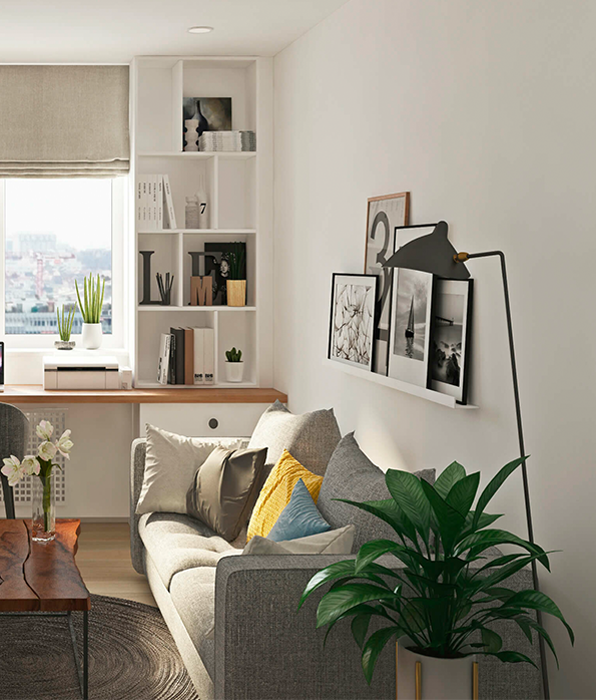
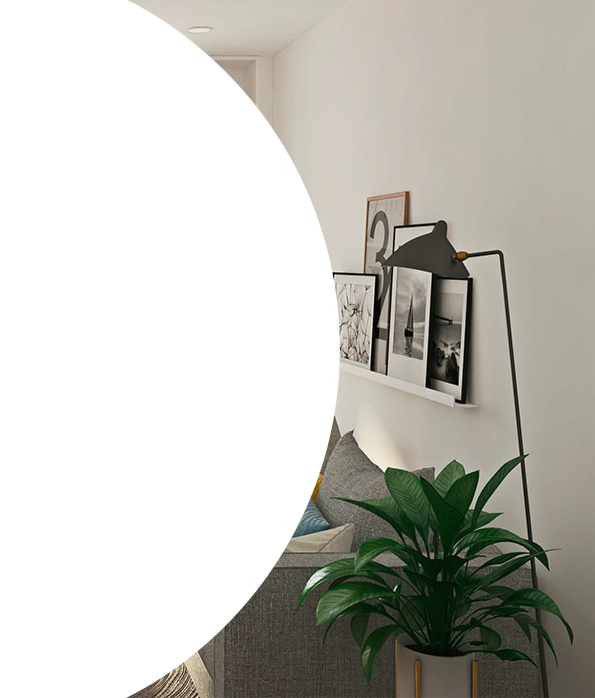
new

diff --git a/style/css/styles.css b/style/css/styles.css
@@ -88,7 +88,7 @@ article, aside, details, figcaption, figure, footer, header, main, menu, nav, se
     max-width: 1620px;
     width: 100%;
     margin: 0 auto;
-    padding: 25px 44px;
+    padding: 25px 40px;
 }
 .navigation-top{
     display: flex;
@@ -352,6 +352,10 @@ article, aside, details, figcaption, figure, footer, header, main, menu, nav, se
 .content-header-center{
     width: 100%;
 }
+.content-header-center {
+    max-width: 1532px;
+    margin: 0 auto;
+}
 .menu-content-header ul{
     display: flex;
     justify-content: space-between;
@@ -530,7 +534,7 @@ article, aside, details, figcaption, figure, footer, header, main, menu, nav, se
     max-width: 1620px;
     width: 100%;
     margin: 0 auto;
-    padding: 0 25px 0 0;
+    padding: 0 40px 0 0;
     background-color: #fbfbfb;
     position: relative;
 }
@@ -954,7 +958,7 @@ article, aside, details, figcaption, figure, footer, header, main, menu, nav, se
     position: absolute;
     top: 50px;
     left: -72px;
-    display: none;
+    z-index: 100;
 }
 .wrap-test{
 
@@ -973,6 +977,9 @@ article, aside, details, figcaption, figure, footer, header, main, menu, nav, se
     top: 56px;
     left: 425px;
 }
+.img-menu img{
+    position: relative;
+}
 .img-menu i{
     position: absolute;
     right: 30px;
@@ -980,21 +987,29 @@ article, aside, details, figcaption, figure, footer, header, main, menu, nav, se
     font-size: 35px;
     cursor: pointer;
 }
-.circul-block{
-    width: 778px;
-    min-height: 782px;
-    background-color: #ffffff;
-    border-radius: 100%;
+.circular-nav{
+    max-width: 595px;
+    width: 100%;
+    height: auto;
     display: flex;
     align-items: center;
     justify-content: flex-end;
+    position: absolute;
+    top:0;
+    left: 0;
+    right: 0;
+    bottom: 0;
+}
+.circular-nav ul{
+    left: 35px;
     position: absolute;
 }
 .circular-nav h2{
     font-size: 46px;
     font-weight: 500;
-    position: relative;
-    left: 110px;
+    position: absolute;
+    left: 19%;
+    top: 15%;
 }
 .circular-nav h2 span{
     color: #ffffff;
@@ -1076,10 +1091,10 @@ article, aside, details, figcaption, figure, footer, header, main, menu, nav, se
     font-weight: 700;
     margin-top: 30px;
 }
-.carousel-control-prev-icon{
+.carousel-control-prev-icon,
+.carousel-control-next-icon{
     width: 30px;
     height: 30px;
-    background-image: none;
 }
 .carousel-control-prev-icon i{
     font-size: 40px;
@@ -1141,7 +1156,7 @@ article, aside, details, figcaption, figure, footer, header, main, menu, nav, se
 .content-footer{
     max-width: 1620px;
     margin: 0 auto;
-    padding: 0 44px 35px 80px;
+    padding: 0 40px 35px 80px;
 }
 .card-footer{
     min-height: 0;
@@ -1156,6 +1171,7 @@ article, aside, details, figcaption, figure, footer, header, main, menu, nav, se
     padding-bottom: 56px;
     display: flex;
     align-items: flex-start;
+    justify-content: space-between;
 }
 .change-next{
     right: -18px;
@@ -1211,6 +1227,13 @@ article, aside, details, figcaption, figure, footer, header, main, menu, nav, se
     box-shadow: 0px 2px 13px -1px rgba(153,134,117,1);
     padding: 65px 15px;
 }
+.footer-banner h2{
+    font-size: 22px;
+    font-weight: 700;
+     line-height: 30px;
+    text-transform: inherit;
+    margin-left: 20px;
+}
 .amazingcarousel-next{
     left: 50%;
     right: 0;
@@ -1255,4 +1278,62 @@ article, aside, details, figcaption, figure, footer, header, main, menu, nav, se
 }
 .vertical-slider{
     margin: 60px 0;
+}
+.email{
+    background-color: transparent;
+    border: none;
+    outline: none;
+    padding: 15px 10px 15px 20px;
+    font-size: 14px;
+}
+.subscription{
+    background-color: #f5f5f4;
+    display: flex;
+}
+.btn-submit{
+    background-color: #4b98c9;
+    color: #ffffff;
+    border: none;
+    outline: none;
+}
+.custom-control-label::before{
+    width: 24px;
+    height: 24px;
+}
+.custom-control-label::after{
+    width: 24px;
+    height: 24px;
+    cursor: pointer;
+}
+.custom-control{
+    margin-top: 20px;
+    margin-bottom: 30px;
+}
+.custom-control-label{
+    padding-left: 13px;
+    font-size: 14px;
+    line-height: 30px;
+    font-family: 'Museo Cyrl';
+    color: #ffffff;
+}
+.footer-social{
+    display: flex;
+    align-items: center;
+}
+.footer-social li{
+    margin-right: 5px;
+    background-color: #9d9275;
+    width: 45px;
+    height: 45px;
+    border-radius: 100%;
+    display: flex;
+    align-items: center;
+    justify-content: center;
+}
+.footer-social li a{
+    font-size: 25px;
+    color: #d3c8ac;
+}
+.social-list{
+    margin-top: 30px;
 }

diff --git a/index.html b/index.html
@@ -274,8 +274,6 @@
                     <div class="img-menu">
                         <img src="images/menu-click.png" alt="menu"/>
                         <i class="fa fa-times" aria-hidden="true"></i>
-                    </div>
-                    <div class="circul-block">
                         <div class="circular-nav">
                             <h2>Стол и <span>стулья</span></h2>
                             <ul>
@@ -933,7 +931,8 @@
                                <span class="sr-only">Previous</span>
                            </a>
                            <a class="carousel-control-next" href="#carouselExampleControls" role="button" data-slide="next">
-                               <span class="carousel-control-next-icon" aria-hidden="true"></span>
+                               <span class="carousel-control-next-icon icon-none" aria-hidden="true">
+                               </span>
                                <span class="sr-only">Next</span>
                            </a>
                        </div>
@@ -1164,22 +1163,44 @@
             <div class="banner-content-right footer-banner">
                 <h2>Подпишись и узнай первым про
                     акции и новости</h2>
-                <form>
-                    <input type="email" placeholder="Введите  e-mail"/>
-                    <button type="submit">Подписаться</button>
+                <form class="subscription">
+                    <input type="email" class="email" placeholder="Введите  e-mail"/>
+                    <button type="submit" class="btn-submit">Подписаться</button>
                 </form>
-                <div class="check-button">
-                    <input type="checkbox">
-                    <label>Нажимая на кнопку, вы даете согласие
+                <div class="custom-control custom-checkbox">
+                    <input type="checkbox" class="custom-control-input" id="customCheck1">
+                    <label class="custom-control-label" for="customCheck1">Нажимая на кнопку, вы даете согласие
                         на обработку своих персональных
                         данных и соглашаетесь с политикой
                         конфиденциальности</label>
                 </div>
                 <h2>Присоединяйтесь к нам в соцсетях:</h2>
                 <div class="social-list">
-                    <ul>
+                    <ul class="footer-social">
                         <li>
-                            <a href=""></a>
+                            <a href="">
+                                <i class="fa fa-facebook" aria-hidden="true"></i>
+                            </a>
+                        </li>
+                        <li>
+                            <a href="">
+                                <i class="fa fa-instagram" aria-hidden="true"></i>
+                            </a>
+                        </li>
+                        <li>
+                            <a href="">
+                                <i class="fa fa-youtube-play" aria-hidden="true"></i>
+                            </a>
+                        </li>
+                        <li>
+                            <a href="">
+                                <i class="fa fa-vk" aria-hidden="true"></i>
+                            </a>
+                        </li>
+                        <li>
+                            <a href="">
+                                <i class="fa fa-paper-plane" aria-hidden="true"></i>
+                            </a>
                         </li>
                     </ul>
                 </div>
